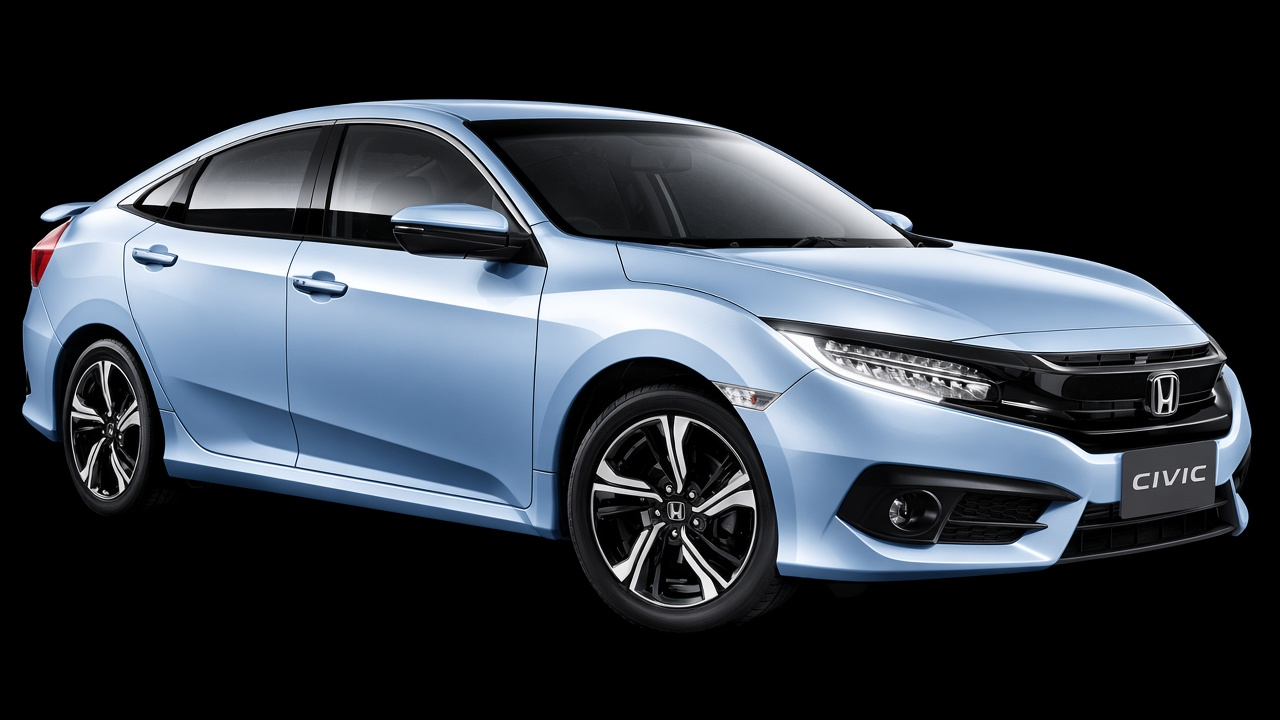
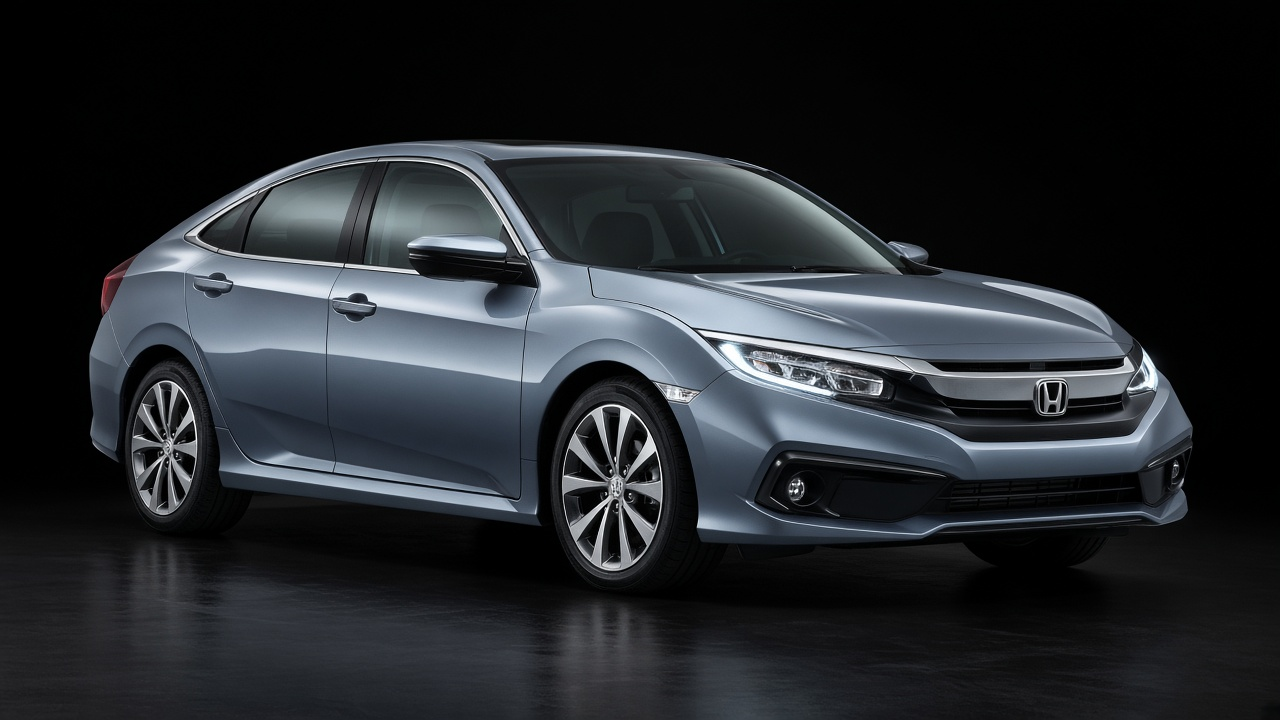
Add civic car images and PngVisualizer component

diff --git a/src/components/PngVisualizer.jsx b/src/components/PngVisualizer.jsx
@@ -80,18 +80,39 @@ export default function PngVisualizer() {
                     src={imagePath}
                     alt={`${car.make} ${car.name} - ${color.name}`}
                     className="car-base-photo"
-                  />
-                  {/* Light finish overlay: brightness adjustment only */}
-                  <div 
-                    className="finish-overlay"
                     style={{
-                      filter: finish === 'glossy' 
-                        ? 'brightness(1.08) contrast(1.02)' 
-                        : 'brightness(0.92) contrast(0.98)',
-                      mixBlendMode: finish === 'glossy' ? 'screen' : 'multiply',
-                      opacity: finish === 'glossy' ? 0.15 : 0.12
+                      filter: finish === 'glossy'
+                        ? 'contrast(1.04) saturate(1.06) brightness(1.02)'
+                        : 'contrast(0.94) saturate(0.78) brightness(0.92)',
                     }}
                   />
+                  {/* Finish: Brillante = subtle gloss; Mate = clearly flat */}
+                  <div
+                    className={`finish-overlay finish-${finish}`}
+                    style={{
+                      background:
+                        finish === 'glossy'
+                          ? 'linear-gradient(135deg, rgba(255,255,255,0.35) 0%, transparent 42%, transparent 58%, rgba(255,255,255,0.12) 100%)'
+                          : 'rgba(20, 18, 16, 0.45)',
+                      mixBlendMode: finish === 'glossy' ? 'screen' : 'multiply',
+                      opacity: finish === 'glossy' ? 0.45 : 0.72,
+                      filter:
+                        finish === 'glossy'
+                          ? 'contrast(1.05) saturate(1.05)'
+                          : 'brightness(0.88) contrast(0.92) saturate(0.82)',
+                    }}
+                  />
+                  {finish === 'matte' && (
+                    <div
+                      className="finish-overlay finish-matte-flat"
+                      style={{
+                        background: 'rgba(128, 120, 110, 0.28)',
+                        mixBlendMode: 'soft-light',
+                        opacity: 0.85,
+                        pointerEvents: 'none',
+                      }}
+                    />
+                  )}
                 </div>
               ) : (
                 <div className="loading-placeholder">
